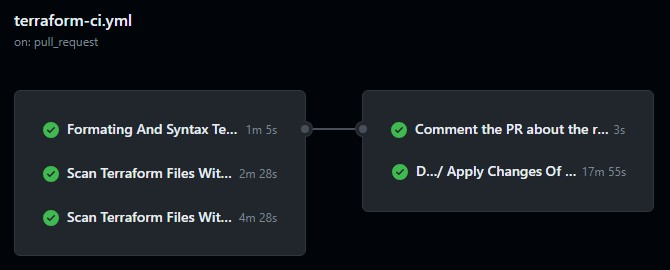
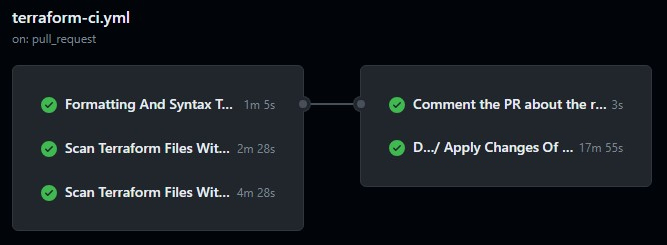
Add note in README about Terraform CI/CD pipeline and update Terraform CI preview image [skip actions]

diff --git a/.github/README.md b/.github/README.md
@@ -414,7 +414,7 @@ The CI/CD pipeline of the source code is handled by 2 GHA workflows [integration
 
 <img width="100%" src="https://github.com/JakubSzuber/Golden-DevOps/blob/main/images/CI-preview.jpg?raw=true" alt="Local website preview"/>
 
-First workflow ([integration.yml](https://github.com/JakubSzuber/Golden-DevOps/blob/main/.github/workflows/integration.yml)) is triggered when a new PR is created of new commit for the PR was pushed (also it can be executed manually) for the main branch. Moreover at least one of the commits has to contain the file that is related with the main React-Nginx container [Dockerfile](https://github.com/JakubSzuber/Golden-DevOps/blob/main/.github/workflows/Dockerfile), [package.json](https://github.com/JakubSzuber/Golden-DevOps/blob/main/.github/workflows/package.json), [package-lock.json](https://github.com/JakubSzuber/Golden-DevOps/blob/main/.github/workflows/package-lock.json), or some file within [src](https://github.com/JakubSzuber/Golden-DevOps/blob/main/src) or [public](https://github.com/JakubSzuber/Golden-DevOps/blob/main/.github/workflows/public) directory except README.md files).
+First workflow ([integration.yml](https://github.com/JakubSzuber/Golden-DevOps/blob/main/.github/workflows/integration.yml)) is triggered when a new PR is created or new commit for the PR was pushed (also it can be executed manually) for the main branch. Moreover at least one of the commits has to contain the file that is related with the main React-Nginx container [Dockerfile](https://github.com/JakubSzuber/Golden-DevOps/blob/main/.github/workflows/Dockerfile), [package.json](https://github.com/JakubSzuber/Golden-DevOps/blob/main/.github/workflows/package.json), [package-lock.json](https://github.com/JakubSzuber/Golden-DevOps/blob/main/.github/workflows/package-lock.json), or some file within [src](https://github.com/JakubSzuber/Golden-DevOps/blob/main/src) or [public](https://github.com/JakubSzuber/Golden-DevOps/blob/main/.github/workflows/public) directory except README.md files).
 
 First are executed 4 jobs in parallel:
 - <b>Link Repo</b> - lint files that was changed. You can comment/uncomment right lines to turn on/off options for linting the entire repo instead of only changed files, linting only specific file(s), or excluding from linting specific file(s).
@@ -430,57 +430,57 @@ If the "Build Test Image (Candidate)" job is successful then 3 jobs are executed
 If the "Build Unit Test Image" job is successful then 1 job is executed:
 - <b>Unit Test in Docker</b> - perform unit tests on the Docker image that was built for that purpose.
 
-When all of the jobs end their work then the last job is executed - <b>"Notify Slack (Final CI Result)"</b> that is responsible for sending the message to the Slack channel about the result of the entire workflow. If any of the jobs will fail, be skipped, or be canceled then the end result of the workflow is "Failure" and the message with appropriate content and color is sent.
+When all of the jobs end their work then the last job is executed - <b>"Notify Slack (Final CI Result)"</b> that is responsible for sending the message to the right Slack channel about the result of the entire workflow. If any of the jobs will fail, be skipped, or be canceled then the end result of the workflow is "Failure" and the message with appropriate content and color is sent.
 
-If any of the jobs fail or are canceled then the end result of the workflow is "Failure" which will be shown in the interface of the PR for which the workflow was executed.
-
+If any of the jobs fail or are canceled then the end result of the workflow is "Failure" which will be shown in the interface of the PR for which the workflow was executed, GHA interface, and badge of the repository.
 
 ## CD stage
 
 <img width="100%" src="https://github.com/JakubSzuber/Golden-DevOps/blob/main/images/CD-preview.jpg?raw=true" alt="Local website preview"/>
 
-Second workflow ([delivery.yml](https://github.com/JakubSzuber/Golden-DevOps/blob/main/.github/workflows/delivery.yml)) is triggered when a PR is merged or there was a direct push (also it can be executed manually) for the main branch. Moreover at least one of the commits has to contain the file that is related with the main React-Nginx container [Dockerfile](https://github.com/JakubSzuber/Golden-DevOps/blob/main/.github/workflows/Dockerfile), [package.json](https://github.com/JakubSzuber/Golden-DevOps/blob/main/.github/workflows/package.json), [package-lock.json](https://github.com/JakubSzuber/Golden-DevOps/blob/main/.github/workflows/package-lock.json), or some file within [src](https://github.com/JakubSzuber/Golden-DevOps/blob/main/src) or [public](https://github.com/JakubSzuber/Golden-DevOps/blob/main/.github/workflows/public) directory except README.md files).
+Second workflow ([delivery.yml](https://github.com/JakubSzuber/Golden-DevOps/blob/main/.github/workflows/delivery.yml)) is triggered when a PR is merged or there was a direct push (also it can be executed manually) for the main branch. Moreover at least one of the commits has to contain the file that is related to the main React-Nginx container [Dockerfile](https://github.com/JakubSzuber/Golden-DevOps/blob/main/Dockerfile), [package.json](https://github.com/JakubSzuber/Golden-DevOps/blob/main/package.json), [package-lock.json](https://github.com/JakubSzuber/Golden-DevOps/blob/main/package-lock.json), or some file within [src](https://github.com/JakubSzuber/Golden-DevOps/blob/main/src) or [public](https://github.com/JakubSzuber/Golden-DevOps/blob/main/public) directory except README.md files).
 
 First are executed 2 jobs in parallel:
 - <b>Build Final Image</b> - build a Docker image with the last stage that includes only unprivileged Nginx image, and push it to both GitHub Registry (the same as "candidate") and DockerHub (where are stored only official images). It is a new container responsible for the main React-Nginx website. The "candidate" image contains minimal software required to serve static React website through Nginx which makes it lightweight and secure.
-- <b>Scan Code With Snyk And Upload Results</b> - perform vulnerability testing with the usage of Snyk for the new Docker container to display all levels of vulnerabilities and upload the test results to Snyk online app and GitHub Code Scanning.
-
-
-
-
-
-<!-- TODO in proggress from below -->
-
-
-
+- <b>Scan Code With Snyk And Upload Results</b> - perform Static Application Security Testing (SAST) testing on the entire repo to print all levels of found vulnerabilities and upload the test results to Snyk online app and GitHub Code Scanning.
 
 If the "Build Final Image" job is successful then 4 jobs are executed in parallel:
-- <b>Deploy To Development / deploy-to-env</b> - XXX
-- <b>Generate SBOM (Software Bill of Materials) For The Final Image</b> - XXX
-- <b>Scan Image With Snyk</b> - perform vulnerability testing with the usage of Snyk for the "candidate" Docker container to display all levels of vulnerabilities and fail the job if any critical vulnerability was found.
-- <b>Scan Image With Trivy</b> - perform vulnerability testing with the usage of Trivy for the "candidate" Docker container to display all levels of vulnerabilities and fail the job if any critical vulnerability was found.
+- <b>Deploy To Development / deploy-to-env</b> - execution of reusable workflow [reusable-change-tag.yml](https://github.com/JakubSzuber/Golden-DevOps/blob/main/.github/workflows/reusable-change-tag.yml) with specifying parameters for the development environment. This workflow just changes the tag of the deployment's image in Helm values-\<env>.yaml file so Argo CD running within the dev EKS cluster can notice that change and update the used image for every pod in the development environment.
+- <b>Generate SBOM (Software Bill of Materials) For The Final Image</b> - generate SBOM for the container and upload it to the GitHub Dependency Graph.
+- <b>Scan Image With Snyk And Upload Results</b> - perform vulnerability testing with the usage of Snyk for the new Docker container to display all levels of vulnerabilities and upload the test results to Snyk online app and GitHub Code Scanning.
+- <b>Scan Image With Trivy And Upload Results</b> - perform vulnerability testing using Trivy for the new Docker container to display all levels of vulnerabilities and upload the test results to GitHub Code Scanning.
 
-If the "Deploy To Development / deploy-to-env" job is successful then 2 jobs are executed in consecutive order - <b>Deploy To Staging</b> -> <b>Deploy To Production</b>. Both jobs are exacly the same except for a different environment (moreover Production environment required manual approve from reviewer(s) before execution).
+If the "Deploy To Development / deploy-to-env" job is successful then 2 jobs are executed in consecutive order - <b>Deploy To Staging</b> -> <b>Deploy To Production</b>. Both jobs are exactly the same except for a different environment (different Helm values-\<env>.yaml file) (moreover Production environment required manual approval from reviewer(s) before execution).
 
-When all of the jobs end their work then the last job is executed - <b>"Notify Slack (Final CI Result)"</b> that is responsible for sending the message to the Slack channel about the result of the entire workflow. If any of the jobs will fail, be skipped, or be canceled then the end result of the workflow is "Failure" and the message with appropriate content and color is sent.
+When all of the jobs end their work then the last job is executed - <b>"Notify Slack (Final CD Result)"</b> that is responsible for sending the message to the right Slack channel about the result of the entire workflow. If any of the jobs will fail, be skipped, or be canceled then the end result of the workflow is "Failure" and the message with appropriate content and color is sent.
 
-If any of the jobs fail or are canceled then the end result of the workflow is "Failure" which will be shown in the interface of the PR for which the workflow was executed.
+If any of the jobs fail or are canceled then the end result of the workflow is "Failure" which will be shown in the GHA interface and badge of the repository. In theory, failure of this workflow shouldn't happen because all tests that could raise an error to block the PR should be previously made by CI workflow, but if the workflow was triggered by a direct commit that contains some kind of bug/vulnerability then failure can absolutely happen. That's why branch protection for at least the main branch is important but of course, everything depends on your needs. Of course, if you modify the workflow by introducing some bug then the workflow can also fail.
+
+> **Important**
+> If you suspect a temporary error of the workflow run caused by GHA then re-run failed and skipped jobs of the same workflow!
 
 
 # Terraform-related files pipeline
 
-Lorem ipsum dolor sit amet consectetur adipisicing elit. Maxime mollitia,
-molestiae quas vel sint commodi repudiandae consequuntur voluptatum laborum
-numquam blanditiis harum quisquam eius sed odit fugiat iusto fuga praesentium
-optio, eaque rerum! Provident similique accusantium nemo autem. Veritatis
-obcaecati tenetur iure eius earum ut molestias architecto voluptate aliquam
-nihil, eveniet aliquid culpa officia aut! Impedit sit sunt quaerat, odit,
-tenetur error, harum nesciunt ipsum debitis quas aliquid. Reprehenderit,
-quia. Quo neque error repudiandae fuga? Ipsa laudantium molestias eos
-sapiente officiis modi at sunt excepturi expedita sint? Sed quibusdam
-recusandae alias error harum maxime adipisci amet laborum.
+The CI/CD pipeline of the Terraform configuration files is handled by 2 GHA workflows [terraform-ci.yml](https://github.com/JakubSzuber/Golden-DevOps/blob/main/.github/workflows/terraform-ci.yml) and [terraform-cd.yml](https://github.com/JakubSzuber/Golden-DevOps/blob/main/.github/workflows/terraform-cd.yml) that contains steps appropriate for particular role of each workflow, and obviously both workflows are executed by different trigger events.
 
+## CI stage
 
+<img width="100%" src="https://github.com/JakubSzuber/Golden-DevOps/blob/main/images/Terraform-CI-preview.jpg?raw=true" alt="Local website preview"/>
+
+First workflow ([integration.yml](https://github.com/JakubSzuber/Golden-DevOps/blob/main/.github/workflows/integration.yml)) is triggered when a new PR is created or a new commit for the PR was pushed (also it can be executed manually) for the main branch. Moreover at least one of the commits has to contain the file that is related to the Terraform-managed infrastructure so any file within [terraform-infrastructure](https://github.com/JakubSzuber/Golden-DevOps/blob/main/terraform-infrastructure) directory.
+
+First are executed 3 jobs in parallel:
+- <b>Formatting And Syntax Tests</b> - check do Terraform configuration files are formatted using `terraform fmt -check -recursive` command and check the syntax errors by using `terraform validate` command.
+- <b>Scan Terraform Files With Trivy</b> - use Trivy to perform vulnerability testing on every file Terraform-related file (instead of automatically generated install.yaml) to print all levels of found vulnerabilities and fail the job if any critical level vulnerability was found.
+- <b>Scan Terraform Files With Snyk</b> - use Snyk to perform vulnerability testing on every file Terraform-related file (counting automatically generated install.yaml) to print all levels of found vulnerabilities and fail the job if any critical level vulnerability was found. File install.yaml is tested in this job because Snyk is not that sensitive to vulnerabilities compared to Trivy and allows for those that are in that file.
+
+When the above 3 test jobs end their work then <b>"Comment the PR about the results of the tests"</b> is executed. This job is responsible for adding a comment the the PR about the results of the previous test jobs and attaching the output of them.
+
+If all of the above 3 test jobs are successful then the last job is executed - <b>Deploy To Development / deploy-to-env</b>. This job uses reusable workflow [reusable-terraform.yml](https://github.com/JakubSzuber/Golden-DevOps/blob/main/.github/workflows/reusable-terraform.yml) with specifying parameters for the development environment in order to apply/deploy Terraform changes for the development environment.
+
+If any of the jobs fail or are canceled then the end result of the workflow is "Failure" which will be shown in the interface of the PR for which the workflow was executed, GHA interface, and badge of the repository.
+<!-- TODOprogress from below -->
 # Rolling back
 
 To roll back revert the right commit with a change and the GHA pipelines along with Argo CD will take care of...?
